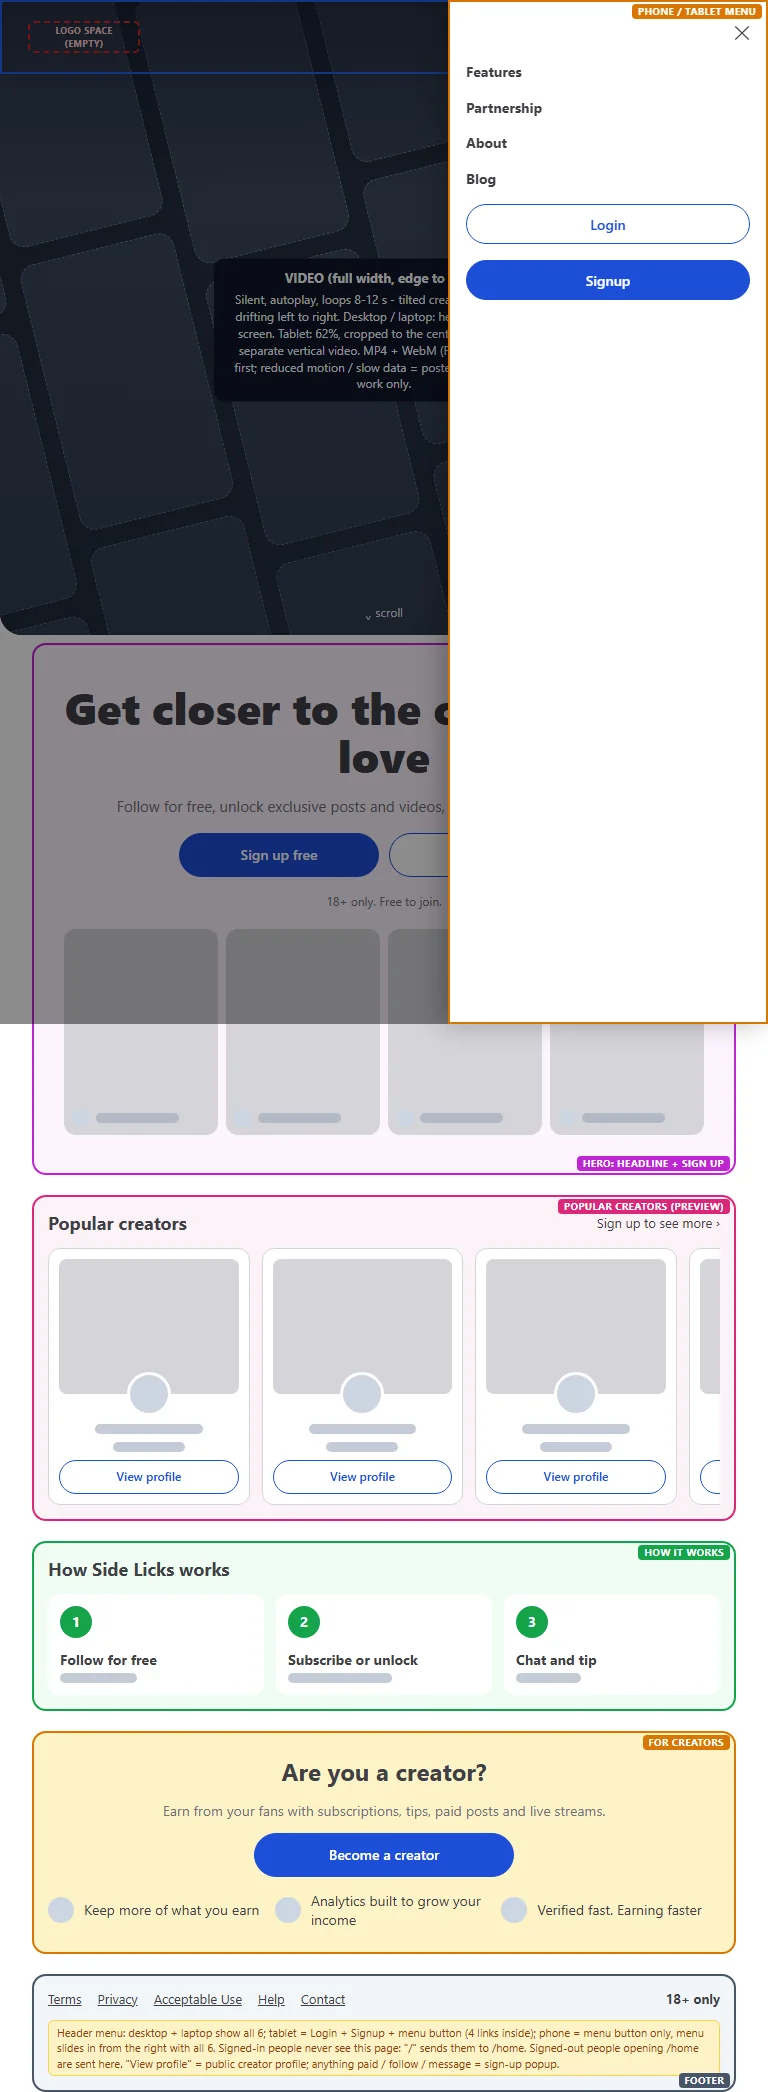
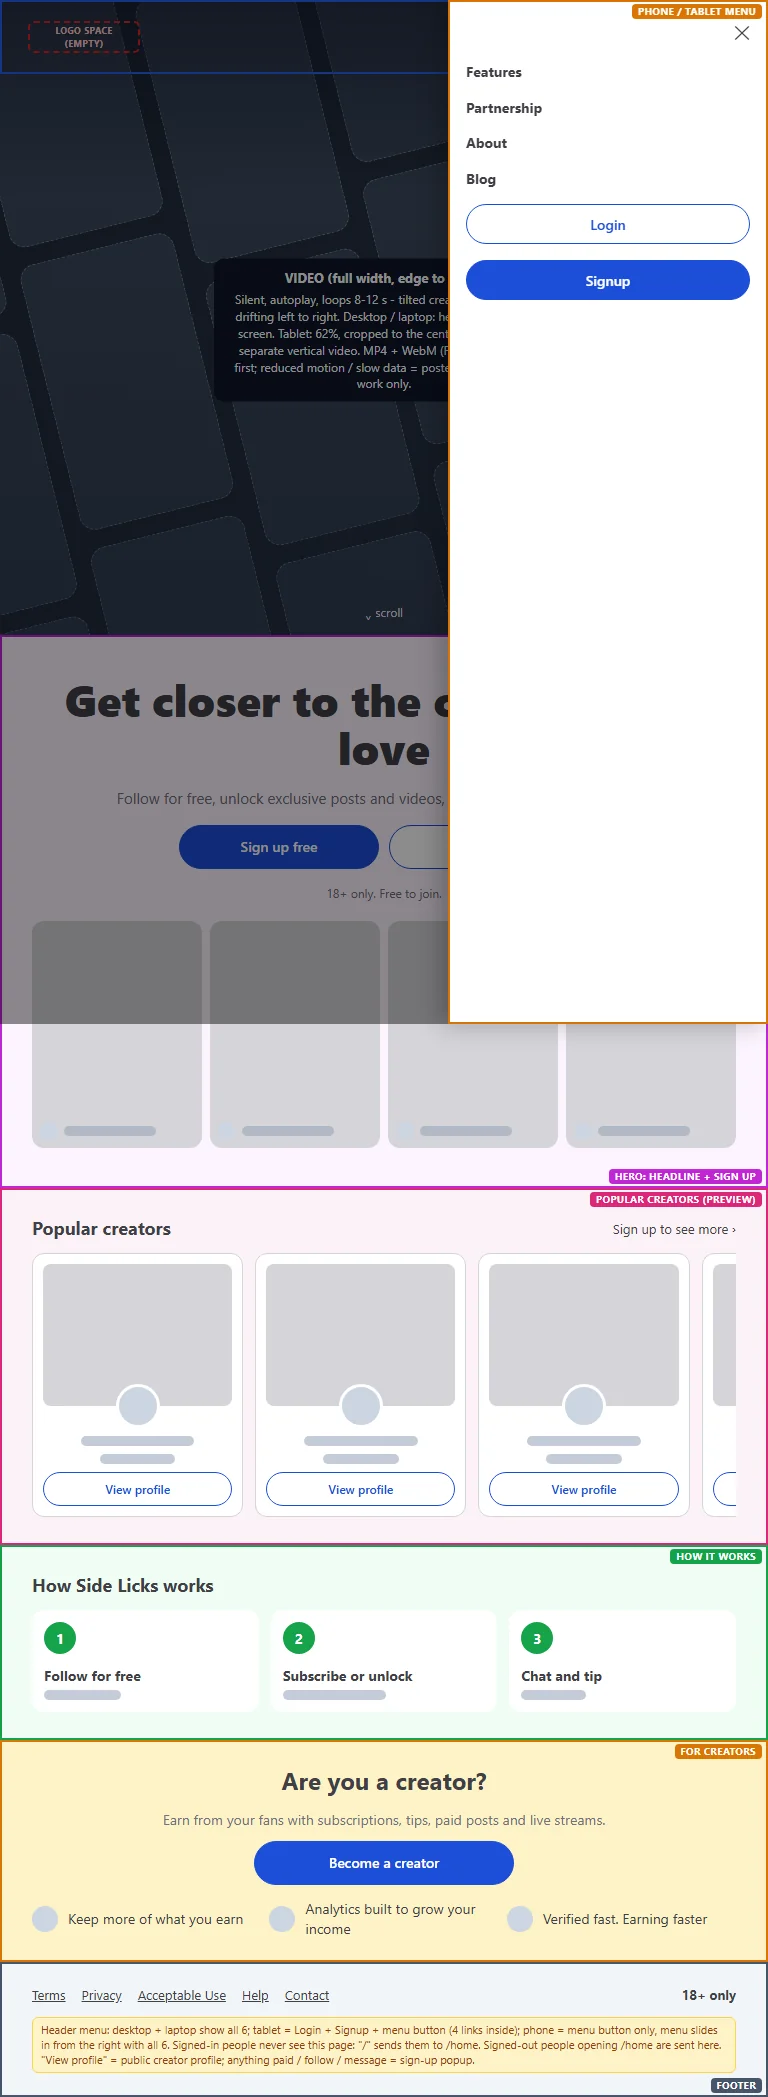
Main page wireframe v3: all sections full width like the video header (owner)

diff --git a/wireframes/landing.html b/wireframes/landing.html
@@ -10,9 +10,12 @@
      Signed-in people go to /home instead. v2 (owner): header = full-width video with the menu on top
      (Logo | Features | Partnership | About | Blog | Login | Signup), then the hero, then creators / how it works / for creators. */
   body { background: #fff; }
-  .wrap { width: 100%; max-width: 1200px; margin: 0 auto; padding: 0 16px; }
-  section, header, footer { border-radius: 14px; }
-  .stack { display: grid; gap: 20px; padding: 12px 0 24px; }
+  /* v3 (owner 2026-10-28): every section under the video is FULL WIDTH like the video - no empty white space left / right.
+     Each section is an edge-to-edge band; only the padding inside grows with the screen. */
+  .wrap { width: 100%; }
+  section, footer { border-radius: 0; }
+  .stack { display: grid; gap: 0; padding: 0; }
+  .band { padding-left: 16px !important; padding-right: 16px !important; }
 
   header { display: flex; align-items: center; justify-content: space-between; gap: 10px; padding: 10px 12px; }
   header .acts { display: flex; gap: 8px; }
@@ -31,14 +34,14 @@
 
   .rowhead { display: flex; justify-content: space-between; align-items: center; font-weight: 700; font-size: 18px; margin-bottom: 12px; }
   .rowhead span { font-size: 13px; font-weight: 400; }
-  .creators { padding: 16px; }
+  .creators { padding: 28px 16px; }
   .cards { display: grid; grid-auto-flow: column; grid-auto-columns: 46%; gap: 12px; overflow: hidden; }
   .card { border-radius: 12px; background: #fff; padding: 10px; display: grid; gap: 8px; justify-items: center; text-align: center; border: 1px solid var(--box-2); }
   .card .cover { width: 100%; aspect-ratio: 4 / 3; border-radius: 8px; background: var(--box-2); }
   .card .circle { width: 44px; height: 44px; margin-top: -30px; border: 3px solid #fff; }
   .card .btn { height: 34px; font-size: 12px; }
 
-  .how { padding: 16px; }
+  .how { padding: 28px 16px; }
   .steps { display: grid; gap: 12px; }
   .step { display: flex; gap: 12px; align-items: flex-start; background: #fff; border-radius: 12px; padding: 12px; }
   .step .num { width: 32px; height: 32px; border-radius: 50%; background: #16a34a; color: #fff; display: grid; place-items: center; font-weight: 700; flex-shrink: 0; }
@@ -46,17 +49,18 @@
 
   .creator { padding: 24px 16px; display: grid; gap: 14px; text-align: center; }
   .creator h2 { margin: 0; font-size: 24px; }
+  .creator .become { max-width: 260px; justify-self: center; }
   .creator .points { display: grid; gap: 8px; text-align: left; }
   .creator .points div { display: flex; gap: 10px; align-items: center; }
   .creator .points .circle { width: 26px; height: 26px; }
 
-  footer { padding: 16px; display: grid; gap: 12px; font-size: 13px; }
+  footer { padding: 24px 16px; display: grid; gap: 12px; font-size: 13px; }
   footer .links { display: flex; flex-wrap: wrap; gap: 8px 16px; }
   footer .age { font-weight: 700; }
 
 
   /* ---- Header video (owner 2026-10-28, wireframe v2): full width, edge to edge, nav on top of it ---- */
-  .vhead { position: relative; height: 88vh; overflow: hidden; border-radius: 0 0 22px 22px; color: #fff; margin-bottom: 8px; }
+  .vhead { position: relative; height: 88vh; overflow: hidden; color: #fff; }
   .vhead .film { position: absolute; inset: -20%; display: grid; grid-template-columns: repeat(6, 1fr); gap: 18px; transform: rotate(-14deg);
                  background: linear-gradient(160deg, #1f2937, #334155); padding: 18px; }
   .vhead .film i { border-radius: 16px; background: #475569; border: 1.5px dashed #94a3b8; min-height: 200px; opacity: .85; }
@@ -86,13 +90,13 @@
     .vhead .vlabel { max-width: 340px; }
   }
   @media (min-width: 1024px) {
-    .vhead { height: 80vh; border-radius: 0 0 28px 28px; }
+    .vhead { height: 80vh; }
     .nav { padding: 20px 40px; }
     .nav .links { display: flex; }
     .nav .burger { display: none; }
   }
   @media (min-width: 640px) {
-    .wrap { padding: 0 32px; }
+    .band { padding-left: 32px !important; padding-right: 32px !important; }
     .hero { padding: 40px 32px; }
     .hero h1 { font-size: 44px; }
     .hero .acts { grid-template-columns: auto auto; justify-content: center; }
@@ -106,18 +110,21 @@
     footer { grid-template-columns: 1fr auto; align-items: center; }
   }
   @media (min-width: 1024px) {
+    .band { padding-left: 48px !important; padding-right: 48px !important; }
     .hero { grid-template-columns: 1fr 1fr; text-align: left; align-items: center; gap: 40px; padding: 56px 40px; }
     .hero .acts { justify-content: start; }
     .hero h1 { font-size: 52px; }
     .collage { grid-template-columns: repeat(3, 1fr); }
     .collage .tile:nth-child(n+4) { display: grid; }
     .collage .tile:nth-child(n+7) { display: none; }
+    .collage { width: 100%; max-width: 620px; justify-self: end; }
     .cards { grid-auto-columns: calc((100% - 48px) / 5); }
     .creator { grid-template-columns: 1fr 1fr; text-align: left; align-items: center; padding: 40px; }
     .creator .points { grid-template-columns: 1fr; }
+    .creator .become { justify-self: start; }
   }
   @media (min-width: 1440px) {
-    .wrap { max-width: 1320px; }
+    .band { padding-left: 80px !important; padding-right: 80px !important; }
     .hero h1 { font-size: 60px; }
     .cards { grid-auto-columns: calc((100% - 60px) / 6); }
   }
@@ -148,7 +155,7 @@
 </aside>
 <div class="wrap stack">
 
-  <section class="hero z-hero lbl-bottom" data-zone="Hero: headline + sign up">
+  <section class="band hero z-hero lbl-bottom" data-zone="Hero: headline + sign up">
     <div style="display:grid;gap:16px">
       <h1>Get closer to the creators you love</h1>
       <p>Follow for free, unlock exclusive posts and videos, and chat with creators directly.</p>
@@ -168,7 +175,7 @@
     </div>
   </section>
 
-  <section class="creators z-suggest" data-zone="Popular creators (preview)">
+  <section class="band creators z-suggest" data-zone="Popular creators (preview)">
     <div class="rowhead">Popular creators <span>Sign up to see more &rsaquo;</span></div>
     <div class="cards">
       <div class="card"><div class="cover"></div><span class="circle"></span><div class="line w60"></div><div class="line w40"></div><button class="btn ghost" type="button">View profile</button></div>
@@ -180,7 +187,7 @@
     </div>
   </section>
 
-  <section class="how z-how" data-zone="How it works">
+  <section class="band how z-how" data-zone="How it works">
     <div class="rowhead">How Side Licks works</div>
     <div class="steps">
       <div class="step"><span class="num">1</span><div><b>Follow for free</b><div class="line w80"></div></div></div>
@@ -189,11 +196,11 @@
     </div>
   </section>
 
-  <section class="creator z-refer" data-zone="For creators">
+  <section class="band creator z-refer" data-zone="For creators">
     <div style="display:grid;gap:12px">
       <h2>Are you a creator?</h2>
       <p style="margin:0;color:var(--soft)">Earn from your fans with subscriptions, tips, paid posts and live streams.</p>
-      <button class="btn" type="button" style="max-width:260px;justify-self:center">Become a creator</button>
+      <button class="btn become" type="button">Become a creator</button>
     </div>
     <div class="points">
       <div><span class="circle"></span>Keep more of what you earn</div>
@@ -202,7 +209,7 @@
     </div>
   </section>
 
-  <footer class="z-foot lbl-bottom" data-zone="Footer">
+  <footer class="band z-foot lbl-bottom" data-zone="Footer">
     <div class="links"><a href="#">Terms</a><a href="#">Privacy</a><a href="#">Acceptable Use</a><a href="#">Help</a><a href="#">Contact</a></div>
     <span class="age">18+ only</span>
     <span class="note" style="grid-column:1/-1">Header menu: desktop + laptop show all 6; tablet = Login + Signup + menu button (4 links inside); phone = menu button only, menu slides in from the right with all 6. Signed-in people never see this page: "/" sends them to /home. Signed-out people opening /home are sent here. "View profile" = public creator profile; anything paid / follow / message = sign-up popup.</span>

diff --git a/design.md b/design.md
@@ -54,7 +54,7 @@ Font: Geist (next/font, self-hosted at build). Change brand colours in one place
 
 **After sign-up: Become a creator** (F117, approved + built 2026-10-28 at /onboarding) - shown to every new user right after sign-up, before Home (owner). Full screen, soft glow at the top, empty logo space centred. 6 steps from the Excel (S104-S109): coins "Top creators earn over $X per month", globe "One platform. Built to make creators money", coins "Keep X% for N days after you verify. Then Y%", bar chart "Analytics built to grow your income", pie chart "Refer a creator. Earn X% of their income", tick "Verified fast. Earning faster". Layout v2 (owner 2026-10-28: v1 side-by-side "looked edgy and bleeding out"): ONE centred column on every size (max 420 / 480 / 520 / 560 px phone / tablet / laptop / desktop) - logo space, 3D picture, headline UNDER the picture, arrows at the column edges with dots between (active dot = short bar), terms line, buttons. Arrows (back hidden on step 1, next hidden on step 6), swipe, auto-move until touched; terms line; "Start earning" (creator application F35 - for now a toast "comes in a later step" -> Home) and "Close" (-> Home). Shown once: after the Check your email popup (X or Send again) and on the first log-in if never seen; "Become a Creator" in the menu opens it any time. Numbers only show once the admin sets them; until then the step uses the same idea without a number (e.g. "Top creators earn real money every month"). Pictures = simple line icons on a soft tile until the 3D artwork (after F5).
 
-**Main page `/`** (F121, v2 2026-10-28, waiting) - the page people see at www.sidelicks.com before they log in; /home is ONLY for signed-in people (owner). HEADER = full-width video, edge to edge (owner v2): silent, autoplay, loops 8-12 s, tilted creator cards slowly drifting left to right; height 80% of the screen on desktop + laptop, 62% tablet (cropped to the centre), 88% phone (separate vertical video); MP4 + WebM via FFmpeg, poster first, reduced motion / slow data = poster only, safe-for-work only; rounded bottom corners, "scroll" hint. Menu on top of the video: Logo space | Features | Partnership | About | Blog | Login | Signup - desktop + laptop show all; tablet = Login + Signup + menu button (4 links inside); phone = menu button only, menu slides in from the right with all 6 (Signup = main button). Under the video, hero: "Get closer to the creators you love", short line, Sign up free + Log in, "18+ only. Free to join."; creator picture collage on the right (laptop + desktop) or under the text (tablet + phone). Popular creators row (preview cards: cover, avatar, name, View profile; sideways scroll). How it works: 1 Follow for free, 2 Subscribe or unlock, 3 Chat and tip. For creators band: "Are you a creator?" + Become a creator + 3 points (no numbers). Footer: Terms, Privacy, Acceptable Use, Help, Contact, 18+ only. Signed in at "/" -> /home; signed out at /home -> "/". Follow / pay / message while signed out -> sign-up popup.
+**Main page `/`** (F121, v3 2026-10-28, waiting - every section under the video is FULL WIDTH like the video, edge-to-edge bands, no empty white space left / right; only the inside padding grows: 16 / 32 / 48 / 80 px phone / tablet / laptop / desktop) - the page people see at www.sidelicks.com before they log in; /home is ONLY for signed-in people (owner). HEADER = full-width video, edge to edge (owner v2): silent, autoplay, loops 8-12 s, tilted creator cards slowly drifting left to right; height 80% of the screen on desktop + laptop, 62% tablet (cropped to the centre), 88% phone (separate vertical video); MP4 + WebM via FFmpeg, poster first, reduced motion / slow data = poster only, safe-for-work only; rounded bottom corners, "scroll" hint. Menu on top of the video: Logo space | Features | Partnership | About | Blog | Login | Signup - desktop + laptop show all; tablet = Login + Signup + menu button (4 links inside); phone = menu button only, menu slides in from the right with all 6 (Signup = main button). Under the video, hero: "Get closer to the creators you love", short line, Sign up free + Log in, "18+ only. Free to join."; creator picture collage on the right (laptop + desktop) or under the text (tablet + phone). Popular creators row (preview cards: cover, avatar, name, View profile; sideways scroll). How it works: 1 Follow for free, 2 Subscribe or unlock, 3 Chat and tip. For creators band: "Are you a creator?" + Become a creator + 3 points (no numbers). Footer: Terms, Privacy, Acceptable Use, Help, Contact, 18+ only. Signed in at "/" -> /home; signed out at /home -> "/". Follow / pay / message while signed out -> sign-up popup.
 
 **Live now row** (owner 2026-10-28): exactly 5 rings in view on every size (each 1/5 of the row, ring 50 / 68 / 80 / 92 px phone / tablet / laptop / desktop), first name + "N watching" (phone: eye icon + N), arrows / swipe move a full 5, left arrow grey at the start, right arrow grey at the end.
 

diff --git a/CLAUDE.md b/CLAUDE.md
@@ -33,11 +33,11 @@ Details: `code.md` (how to run, structure, tests), `design.md` (screens, sizes, 
 
 ## Status (update every task)
 
-- 2026-10-27 Step 1 (B20 + F6 wireframes): project set up, start page + `/api/health` working, wireframes for register / verify email / home made at 4 sizes - **wireframes APPROVED by owner 2026-10-28** (register, verify email, home; with continuous scroll on Discover). F5 (logo) waits for owner. Git remote `origin` = GitHub repo above; Excel task list now v79. First approval message was withdrawn by the owner (no pictures had been shown); colour-coded pictures sent 2026-10-27. Home redesigned (layout v2: live rings, post grid, suggestions inside the feed; then v3: owner wants the menu ALWAYS on the left on every device, no bottom bar). Discover (2026-10-28) = one-line video row -> "Creators you may like" row -> new video row with different creators -> ... (owner). Feed algorithm changed by owner: Discover tab opens first on every login (videos, tap name = profile), Subscribed tab next to it (only followed / subscribed creators); first-login screen replaced by this. Branded mockups wait for the logo (F5).
+- 2026-10-27 Step 1 (B20 + F6 wireframes): project set up, start page + `/api/health` working, wireframes for register / verify email / home made at 4 sizes - **wireframes APPROVED by owner 2026-10-28** (register, verify email, home; with continuous scroll on Discover). F5 (logo) waits for owner. Git remote `origin` = GitHub repo above; Excel task list now v80. First approval message was withdrawn by the owner (no pictures had been shown); colour-coded pictures sent 2026-10-27. Home redesigned (layout v2: live rings, post grid, suggestions inside the feed; then v3: owner wants the menu ALWAYS on the left on every device, no bottom bar). Discover (2026-10-28) = one-line video row -> "Creators you may like" row -> new video row with different creators -> ... (owner). Feed algorithm changed by owner: Discover tab opens first on every login (videos, tap name = profile), Subscribed tab next to it (only followed / subscribed creators); first-login screen replaced by this. Branded mockups wait for the logo (F5).
 - 2026-10-28 **Step 1A DONE: home page built** at http://localhost:3000/home (sample data; real feed API = B110, accounts = B25). Tested 3 runs x 4 sizes. Next: review with the owner which steps come next (owner asked for this), then build register / verify email.
 - 2026-10-28 **Step 1B (owner: register + login before "check your email")**: register BUILT (real page + API + database + Check your email popup + toasts). Login wireframe **approved 2026-10-28** and login BUILT (page + `POST /api/auth/login` + "Send it again"); unverified emails can not log in until verified. Sign up button added under Log in (owner); login wireframe approved again with it. After sign-up "Become a creator" steps wireframe (F117, 6 steps from the Excel) made, redone as one centred column, **approved and BUILT** at /onboarding (owner 2026-10-28). Excel v77. Emails only go to the `email_outbox` table until an email service is chosen (E1).
 
-- 2026-10-28 **Main page `/` (signed out, www.sidelicks.com)** wireframe made (F121), v2 = full-width video header with the menu on top (owner), **waiting for owner approval**. /home = signed-in only (owner).
+- 2026-10-28 **Main page `/` (signed out, www.sidelicks.com)** wireframe made (F121), v2 = full-width video header with the menu on top, v3 = all sections full width too (owner), **waiting for owner approval**. /home = signed-in only (owner).
 
 ## Working notes for Claude
 

diff --git a/code.md b/code.md
@@ -150,3 +150,4 @@ Goal: Discover never ends, rows never look cut off, and the fan is not worn out 
 - 2026-10-28 F117 built: /onboarding (CreatorIntro), migration 003_creator_intro (users.creator_intro_seen_at, site_settings), POST /api/auth/creator-intro-seen, GET /api/settings/creator-intro; `me` now has creatorIntroSeen; sign-up popup + first log-in go to /onboarding, menu "Become a Creator" links there. Tests: backend e2e 15/15 (real DB), Playwright 68/68 at 4 sizes x 2 runs.
 - 2026-10-28 Wireframe: wireframes/landing.html (F121 main page "/" for signed-out people) + zones z-hero / z-how / z-foot. Owner now gets ONE picture set per wireframe: wireframes/sheets/<name>-3sizes.webp (desktop, tablet, phone, made with FFmpeg from the shots).
 - 2026-10-28 landing.html v2: header video zone (z-video) with the menu on top + phone/tablet menu state ("menu").
+- 2026-10-28 landing.html v3: sections are full-width bands (.band) like the video header.
